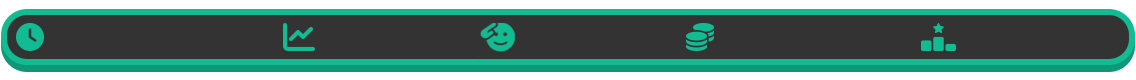
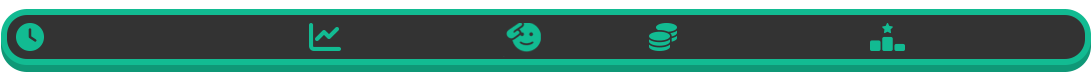
optimized disable button feature, implemented followers and respect counters, initial capaign feature setup

diff --git a/src/components/Places/Ptsede.js b/src/components/Places/Ptsede.js
@@ -6,16 +6,18 @@ import { motion } from "framer-motion";
 import { UserContext } from '../BackgrondTasks/UserDataContext';
 import { doc, updateDoc, onSnapshot } from 'firebase/firestore';
 import { SpeechBubbleContext } from "../BackgrondTasks/SpeechBubble";
+import Countdown from 'react-countdown';
 
 
 function Ptsede() {
 
-    const { money, setMoney, id, currentQuest, setCurrentQuest } = useContext(UserContext)
+    const { money, setMoney, id, currentQuest, setCurrentQuest, respect } = useContext(UserContext)
     const [disable, setDisable] = useState(false);
+    const [countdownTimer, setCountdownTimer] = useState('');
 
     const Ref = doc(db, 'users', id)
 
-    let newMoney = money + 1000
+    let newMoney = money + (1000 * respect)
 
     const updateMoney = async (id, money) => {
         await updateDoc(Ref, {
@@ -29,8 +31,36 @@ function Ptsede() {
         })
     };
 
+    const reenableButton = async (id, disabledSede) => {
+        setDisable(false);
+        await updateDoc(Ref, {
+            disabledSede: false
+        })
+    };
+
+    const updateSedeCountdown = async (id, sedeCountdown) => {
+        await updateDoc(Ref, {
+            sedeCountdown: Date.now() + 86400000
+        })
+    };
+
+    const ShowCountdown = () => {
+        return (
+            <Countdown Countdown date={countdownTimer} onComplete={reenableButton} daysInHours={true} className={styles.countdown} />
+        )
+    }
+
+    const checkCountDown = () => {
+        if (countdownTimer) {
+            if (Date.now() >= countdownTimer) {
+                reenableButton();
+            }
+        }
+    }
+
     onSnapshot(Ref, (doc) => {
         setDisable(doc.data().disabledSede);
+        setCountdownTimer(doc.data().sedeCountdown);
     })
 
     const updateQuest = async (id, quest) => {
@@ -43,6 +73,7 @@ function Ptsede() {
     }
     useEffect(() => {
         updateQuest();
+        checkCountDown();
     });
 
     return (
@@ -51,17 +82,49 @@ function Ptsede() {
             animate={{ opacity: 1 }}
             exit={{ opacity: 0 }}
         >
-
-            <h1>Sede do Partido</h1>
-            <p>Seu Orçamento: {money}</p>
-            <button disabled={disable} onClick={() => { updateDisabledSede(); updateMoney(); setMoney(newMoney); setDisable(true); }}>
-                Receber Orçamento
-            </button><br />
-            <Link to="/MainGameWindow">
-                <button>
-                    Voltar
-                </button>
-            </Link>
+            <div className={styles.wrapper}>
+                <h1>Sede do Partido</h1>
+                <div className={styles.headergrouped}>
+                    <h4>Orçamento total: {money}</h4><br />
+                    <h4>Nível de respeito: {respect}</h4><br />
+                    <h4>Orçamento diário: {1000 * respect}</h4><br />
+                </div>
+                <div className={styles.grouped}>
+                    <button disabled={disable} onClick={() => { updateDisabledSede(); updateSedeCountdown(); updateMoney(); setMoney(newMoney); setDisable(true); setCountdownTimer(Date.now() + 86400000) }}>
+                        Receber Orçamento
+                    </button><ShowCountdown /><br />
+                </div>
+                <h2>Criar Campanha Publicitária:</h2>
+                <div className={styles.Campanha}>
+                    <div>
+                        <button>
+                            Outdoors
+                        </button>
+                        <button>
+                            Jornais e Revistas
+                        </button>
+                    </div>
+                    <div>
+                        <button>
+                            Rádio
+                        </button>
+                        <button>
+                            Redes Sociais
+                        </button>
+                    </div>
+                    <div>
+                        <button>
+                            Televisão
+                        </button>
+                    </div>
+                </div>
+                <br />
+                <Link to="/MainGameWindow">
+                    <button>
+                        Voltar
+                    </button>
+                </Link>
+            </div>
             <SpeechBubbleContext />
         </motion.div>
     )

diff --git a/src/components/Styles/insideplace.module.css b/src/components/Styles/insideplace.module.css
@@ -14,6 +14,41 @@
     flex-direction: column;
 }
 
+.wrapper {
+    width: 600px;
+    height: 550px;
+    padding: 0%;
+    margin: 0%;
+    color: black;
+    opacity: 100%;
+    display: flex;
+    align-items: center;
+    flex-direction: column;
+    justify-content: space-between;
+}
+
+.grouped {
+    padding: 0%;
+    margin: 0%;
+    color: black;
+    opacity: 100%;
+    display: flex;
+    align-items: center;
+    flex-direction: column;
+    justify-content: center;
+}
+
+.headergrouped {
+    padding: 0%;
+    margin: 0%;
+    color: black;
+    opacity: 100%;
+    display: flex;
+    align-items: center;
+    flex-direction: column;
+    display: inline;
+}
+
 h1 {
     color: rgb(255, 166, 0);
     text-shadow: -1px -1px 0 #000, 1px -1px 0 #000, -1px 1px 0 #000, 1px 1px 0 #000;
@@ -26,7 +61,31 @@ h2 {
     letter-spacing: 2px;
 }
 
+h4 {
+    color: rgb(255, 255, 255);
+    text-shadow: -1px -1px 0 #000, 1px -1px 0 #000, -1px 1px 0 #000, 1px 1px 0 #000;
+    letter-spacing: 2px;
+    display: inline;
+}
+
+.countdown {
+    color: rgb(255, 166, 0);
+    text-shadow: -1px -1px 0 #000, 1px -1px 0 #000, -1px 1px 0 #000, 1px 1px 0 #000;
+}
+
 p2 {
     color: rgb(255, 166, 0);
     text-shadow: -1px -1px 0 #000, 1px -1px 0 #000, -1px 1px 0 #000, 1px 1px 0 #000;
+}
+
+.Campanha {
+    width: 640px;
+    height: auto;
+    padding: 0%;
+    margin: 0%;
+    color: black;
+    opacity: 100%;
+    display: flex;
+    align-items: center;
+    flex-direction: row;
 }

diff --git a/src/components/BackgrondTasks/CreateNewUser.js b/src/components/BackgrondTasks/CreateNewUser.js
@@ -8,7 +8,7 @@ import "../Styles/login.css";
 
 export const SetNewPlayerName = () => {
     const { user } = useContext(AuthContext);
-    const { setMoney, setPlayerName, playerName, setId, setCurrentQuest } = useContext(UserContext);
+    const { setMoney, setPlayerName, playerName, setId, setCurrentQuest, setFollowers, setRespect } = useContext(UserContext);
 
     const navigate = useNavigate();
 
@@ -21,10 +21,15 @@ export const SetNewPlayerName = () => {
             email: user.email,
             quest: 1,
             disabledSede: false,
+            sedeCountdown: 0,
+            followers: 100,
+            respect: 1,
         });
         setId(user.email);
         setMoney(1000);
         setCurrentQuest(1);
+        setFollowers(100);
+        setRespect(1);
         navigate('/MainGameWindow');
     }
     return <div className="login">

diff --git a/src/components/BackgrondTasks/Topbar.js b/src/components/BackgrondTasks/Topbar.js
@@ -5,7 +5,7 @@ import CountDownTimer from "@inlightmedia/react-countdown-timer"
 
 function Topbar() {
 
-    const { money } = useContext(UserContext)
+    const { money, followers, respect } = useContext(UserContext)
 
 
     return (
@@ -13,6 +13,12 @@ function Topbar() {
             <img src='../img/topbar.png' alt="" id="topbar" />
             <div className={styles.countdownbar}>
                 <CountDownTimer shouldShowTimeUnits="true" shouldHidePrecedingZeros="true" dateTime="2022-10-02T06:00:00Z" />
+            </div>
+            <div className={styles.followersbar}>
+                <p>{followers}</p>
+            </div>
+            <div className={styles.respectbar}>
+                <p>{respect}</p>
             </div>
             <div className={styles.moneybar}>
                 <p>{money}</p>

diff --git a/src/components/BackgrondTasks/UserDataInitialization.js b/src/components/BackgrondTasks/UserDataInitialization.js
@@ -9,7 +9,7 @@ import MainGameWindow from '../../MainGameWindow'
 export const UserDataInit = () => {
 
     const { user } = useContext(AuthContext);
-    const { id, setMoney, setPlayerName, setCurrentQuest } = useContext(UserContext);
+    const { id, setMoney, setPlayerName, setCurrentQuest, setFollowers, setRespect } = useContext(UserContext);
 
     if (id) {
         if (id === user.email) {
@@ -19,6 +19,8 @@ export const UserDataInit = () => {
                 setMoney(doc.data().money);
                 setPlayerName(doc.data().name);
                 setCurrentQuest(doc.data().quest);
+                setFollowers(doc.data().followers);
+                setRespect(doc.data().respect);
             })
         }
         return <MainGameWindow />

diff --git a/src/components/BackgrondTasks/UserDataContext.js b/src/components/BackgrondTasks/UserDataContext.js
@@ -9,12 +9,13 @@ export const UserDataContext = ({ children }) => {
     const [playerName, setPlayerName] = useState('');
     const [id, setId] = useState('');
     const [currentQuest, setCurrentQuest] = useState('');
-
+    const [followers, setFollowers] = useState();
+    const [respect, setRespect] = useState();
 
     return (
         <UserContext.Provider
 
-            value={{ money, setMoney, playerName, setPlayerName, id, setId, currentQuest, setCurrentQuest }}>
+            value={{ money, setMoney, playerName, setPlayerName, id, setId, currentQuest, setCurrentQuest, followers, setFollowers, respect, setRespect }}>
             {children}
 
         </UserContext.Provider>

diff --git a/src/components/Styles/topbar.module.css b/src/components/Styles/topbar.module.css
@@ -1,15 +1,31 @@
 .moneybar {
     color: white;
     position: absolute;
-    top: -4px;
-    left: 466px;
+    top: -3px;
+    left: 460px;
     font-size: large;
 }
 
 .countdownbar {
     color: white;
     position: absolute;
-    top: -4px;
+    top: -3px;
     left: 52px;
+    font-size: large;
+}
+
+.followersbar {
+    color: white;
+    position: absolute;
+    top: -3px;
+    left: 242px;
+    font-size: large;
+}
+
+.respectbar {
+    color: white;
+    position: absolute;
+    top: -3px;
+    left: 372px;
     font-size: large;
 }

diff --git a/src/MainGameWindow.js b/src/MainGameWindow.js
@@ -5,7 +5,6 @@ import { motion } from "framer-motion";
 import { SpeechBubbleContext } from "./components/BackgrondTasks/SpeechBubble";
 
 function MainGameWindow() {
-
   return (
     <div id="GameWrapper">
       <motion.div className="MainGameWindow"

diff --git a/src/components/Styles/index.css b/src/components/Styles/index.css
@@ -202,7 +202,7 @@ body {
     height: auto;
     position: absolute;
     left: 20px;
-    top: 3px;
+    top: 2.2px;
 }
 
 #speechbubble {
